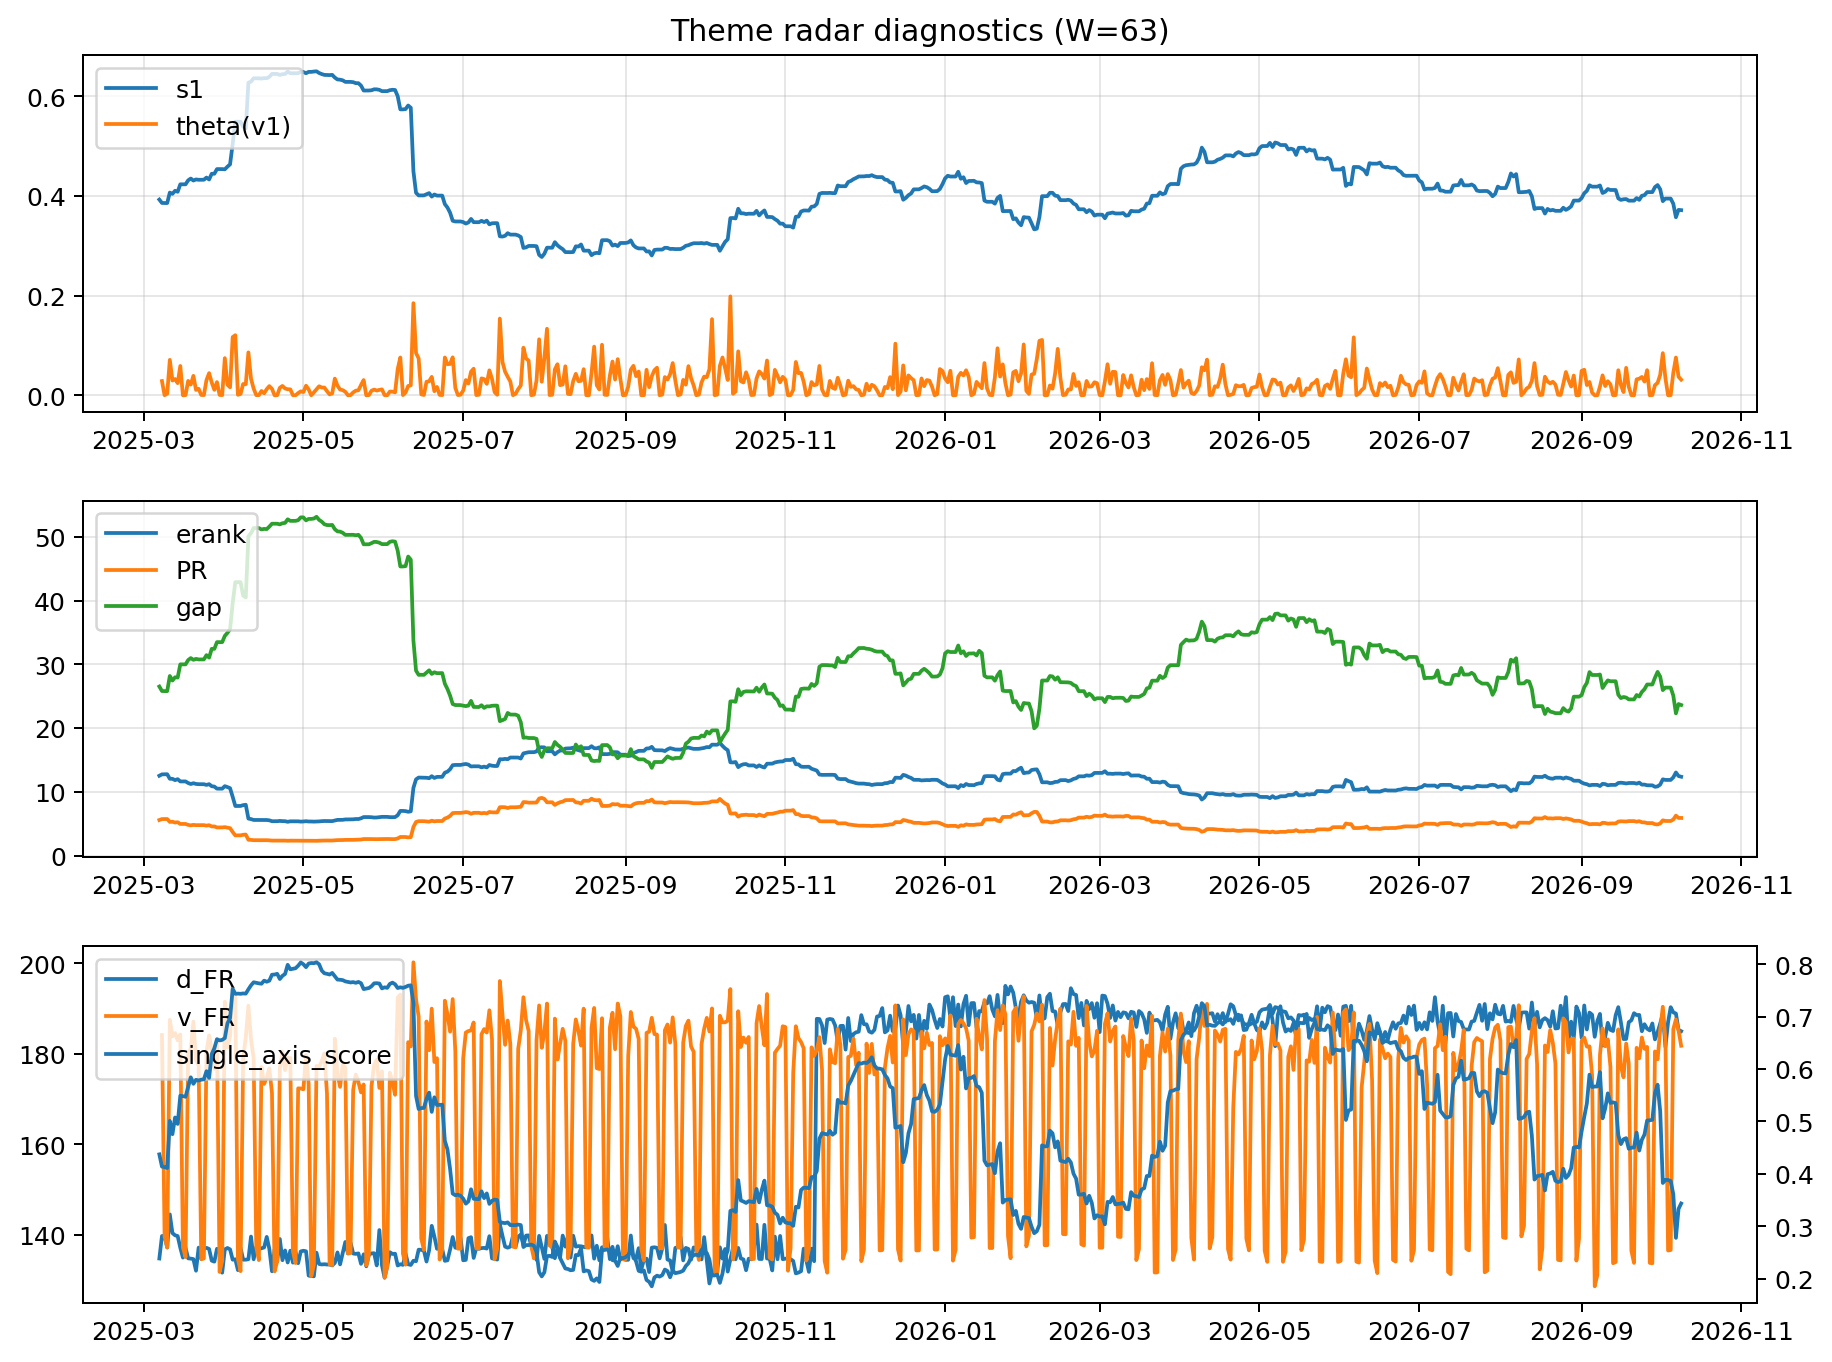
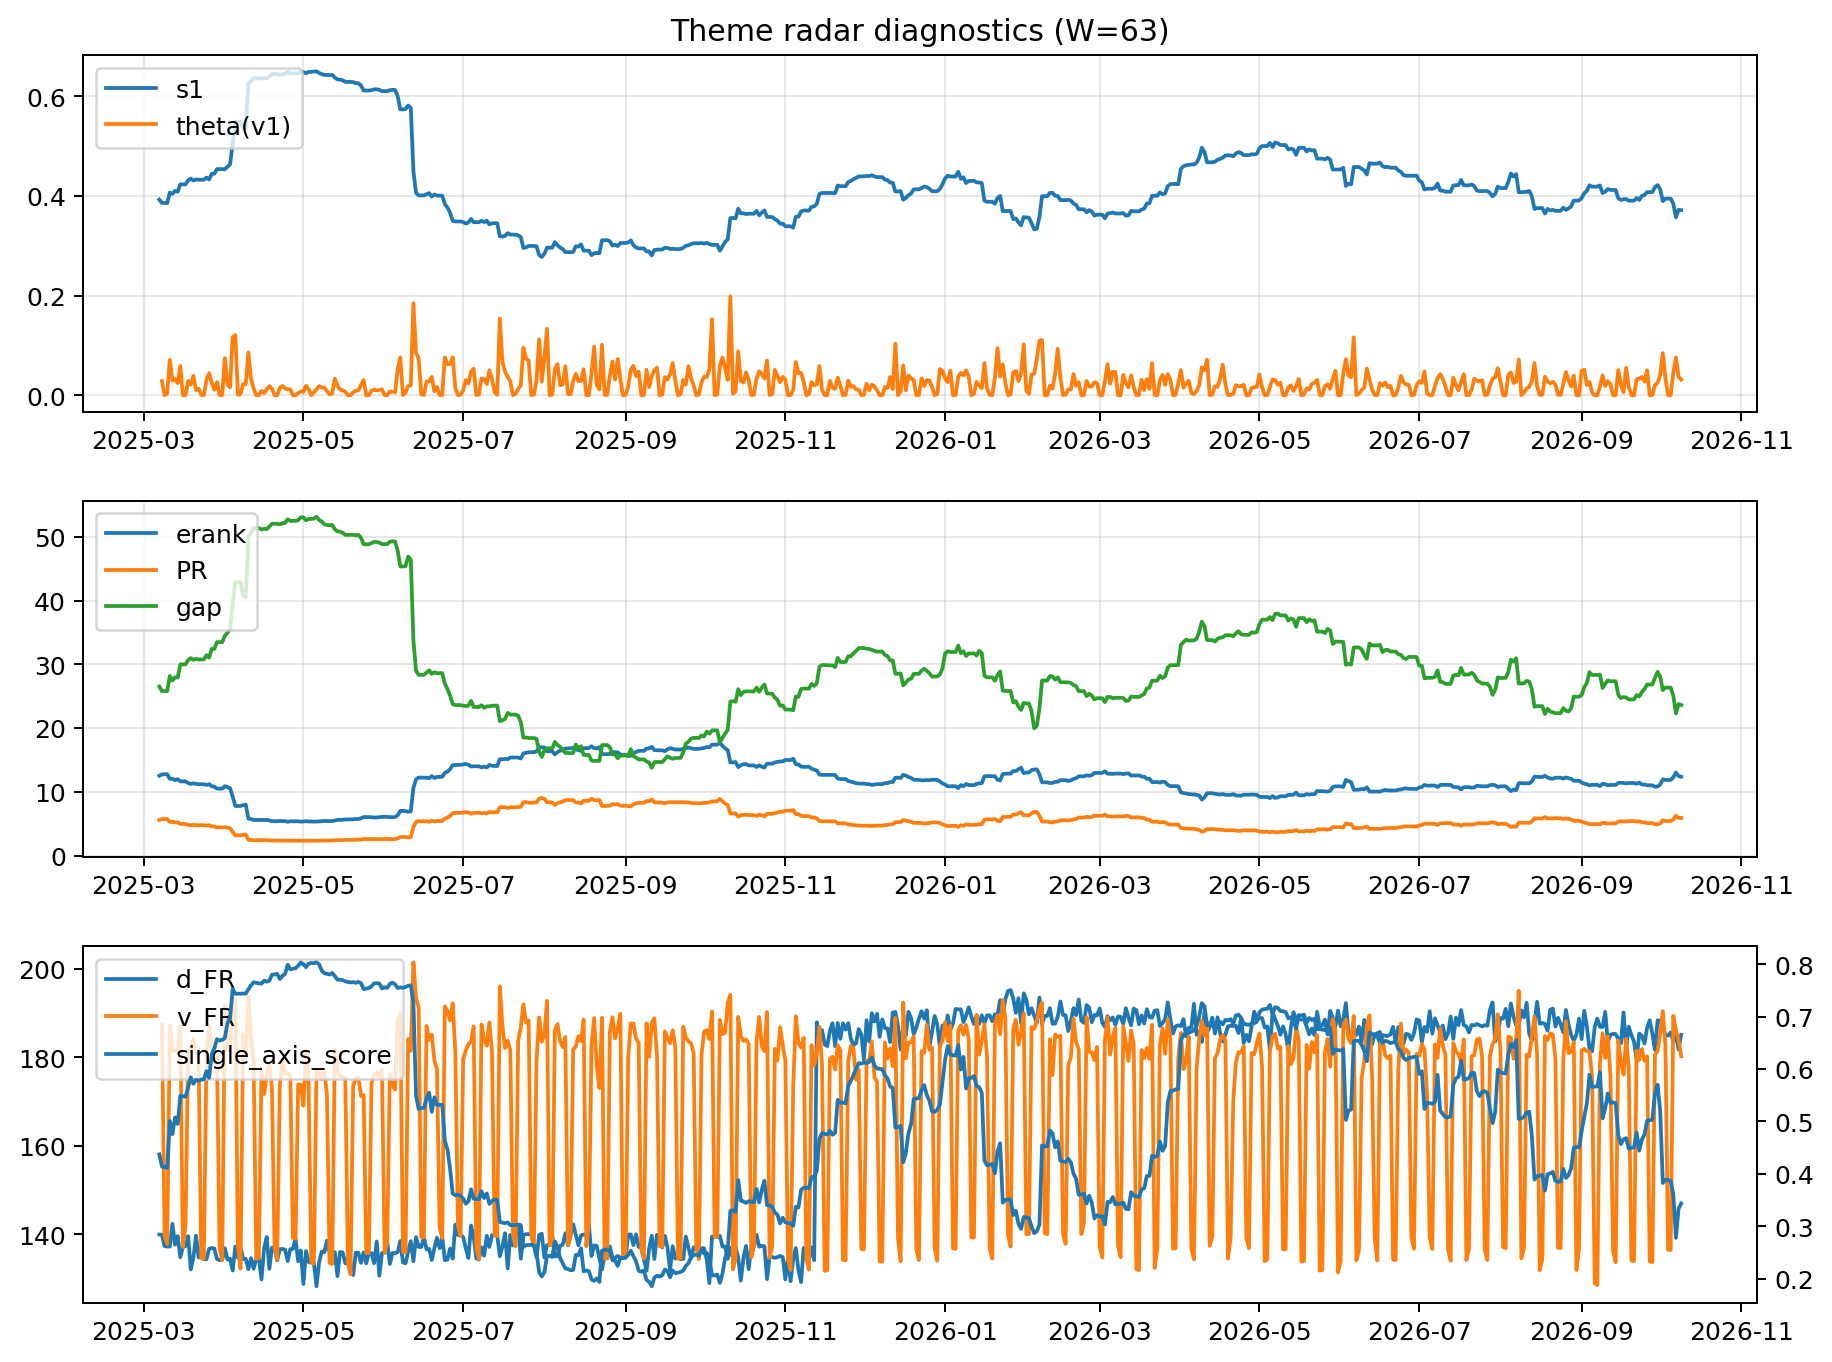
log: 2026-10-09 | sha256:777fcc552d794b712e677d6cf8d540828c5469a60496a7a20a666bb6545e9d5f

diff --git a/logs/2026-10-09.md b/logs/2026-10-09.md
@@ -3,43 +3,43 @@
 ![diagnostic W63](../assets/diagnostic/2026-10-09_W63.png)
 
 ## Leaders (v1) — W=63
-- **Nuclear_Uranium** (0.0784969842385276)
-- Semis (0.0619183199318185)
-- Space (0.0586828231329837)
+- **Nuclear_Uranium** (0.078496974199909)
+- Semis (0.0619183104261135)
+- Space (0.0586828130551769)
 
 ## Challengers — W=63
-**v2:** Semis (0.0959505742183783), Genomics_Bio (0.0827239117082041), Grid_Power (0.0726011836645735)
-**v3:** Software_Cloud (0.1125642264529548), Cyber (0.0821215175799291), Space (0.0669721056810515)
+**v2:** Semis (0.0959505600180983), Genomics_Bio (0.0827237617366175), Grid_Power (0.0726012313165835)
+**v3:** Software_Cloud (0.1125641465991323), Cyber (0.0821214823104684), Space (0.0669721781183081)
 
 ## Migration (20D slope) — W=63
 **Top risers:**
-- axis_Rates: 0.0006731357638906
-- axis_DataCenter_Infra: 0.0005533037468491
-- axis_Sector_RealEstate: 0.0005453437609847
-- axis_Sector_Utilities: 0.0002459707123642
-- axis_Sector_ConsDisc: 0.0002449824148791
-- axis_Crypto: 0.0002260965691241
-- axis_Sector_Materials: 0.0002072600217867
-- axis_Sector_Comm: 0.0001946044410155
-- axis_Software_Cloud: 0.0001598676421731
-- axis_Metals: 0.0001592638691666
+- axis_Rates: 0.0006731306225336
+- axis_DataCenter_Infra: 0.0005533031777768
+- axis_Sector_RealEstate: 0.0005453434823771
+- axis_Sector_Utilities: 0.0002459707085905
+- axis_Sector_ConsDisc: 0.0002449823908967
+- axis_Crypto: 0.0002260966676165
+- axis_Sector_Materials: 0.0002072599965081
+- axis_Sector_Comm: 0.0001946046832173
+- axis_Software_Cloud: 0.0001598675041483
+- axis_Metals: 0.0001592641096649
 
 **Top fallers:**
-- axis_MegaCap_AI: -0.0001301015899267
-- axis_Cyber: -0.0002030224649304
-- axis_Genomics_Bio: -0.0002230775349718
-- axis_Space: -0.000266540005951
-- axis_Grid_Power: -0.0002911548276671
-- axis_Sector_ConsStap: -0.0002952322073039
-- axis_Drones_Autonomy: -0.0003775750019398
-- axis_Quantum: -0.0004335211368675
-- axis_Semis: -0.0004785590356709
-- axis_Nuclear_Uranium: -0.000490923835048
+- axis_MegaCap_AI: -0.0001301013456119
+- axis_Cyber: -0.0002030224791889
+- axis_Genomics_Bio: -0.0002230780548421
+- axis_Space: -0.0002665401966808
+- axis_Grid_Power: -0.0002911550615684
+- axis_Sector_ConsStap: -0.0002952321161058
+- axis_Drones_Autonomy: -0.0003775751592371
+- axis_Quantum: -0.0004335210985312
+- axis_Semis: -0.000478558656857
+- axis_Nuclear_Uranium: -0.0004909238311275
 
 ## Risk line (W=63)
-- s1: 0.3714101517826574
-- theta_v1: 0.0313817972179959
-- v_FR: 181.77341893173465
+- s1: 0.3714101709005689
+- theta_v1: 0.0313818121892586
+- v_FR: 180.2907915240142
 - single_axis_score: 0.3432989690721649
 
 ## Interpretation
@@ -48,7 +48,7 @@
 - Action: Tomorrow watchlist: Rates, DataCenter_Infra, Sector_RealEstate, Sector_Utilities, Sector_ConsDisc + v2_top1=Semis
 - Action: Hedge note: normal correlation stability.
 
-- Percentiles (W=63 history): vfr_pct=0.57, theta_pct=0.69, s1_pct=0.31, score_pct=0.23.
+- Percentiles (W=63 history): vfr_pct=0.48, theta_pct=0.69, s1_pct=0.31, score_pct=0.23.
 
 ---
[2 lines of base64/hex data omitted]
